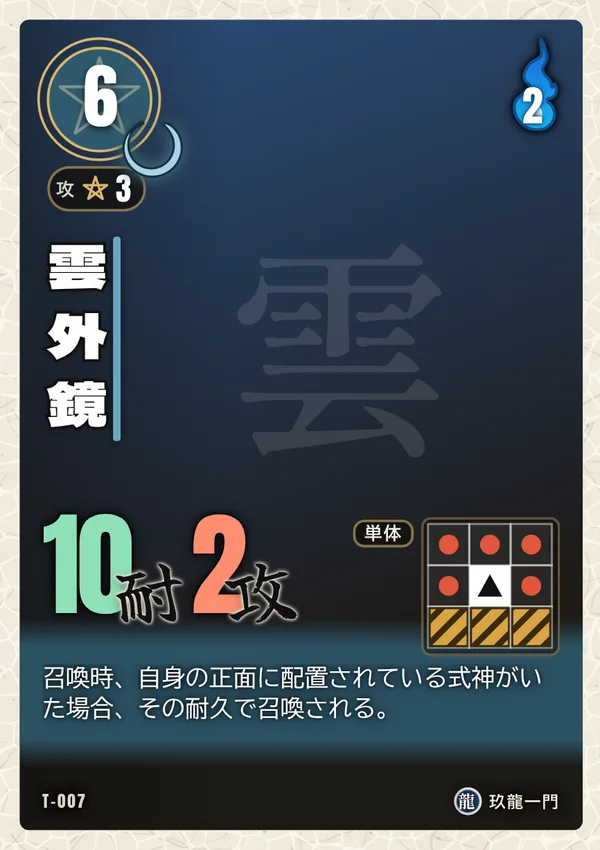
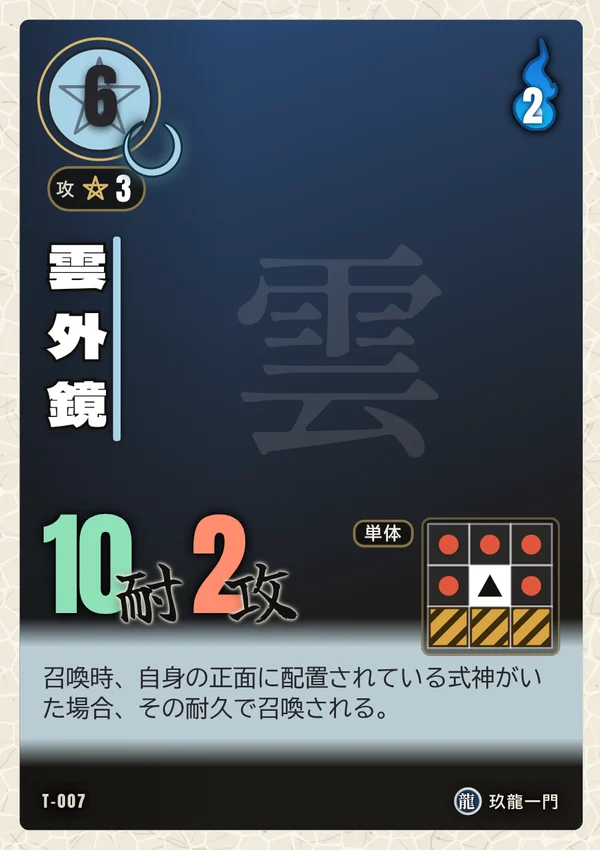
sim2: 空の色を淡い水色にした(1030案)。札の召喚の丸・効果文の下敷き、紙の盤の空のマス、スマホのタイルの空の札をそろえた
濃い青緑の空が陰の濃紺と見間違えられたため(10/29 テストプレイ)。
札の絵 T-003/T-005/T-007/T-008、盤のマス void.webp、紹介ページの盤の絵 board-play.webp を差し替え。

Claude-Session: https://claude.ai/code/session_01AZRZfNCtPehFYra9YcaX9S

Changed region(s): [[0.03, 0.7341, 0.99, 0.9176], [0.06, 0.0306, 0.27, 0.1835], [0.18, 0.2753, 0.21, 0.52]]

diff --git a/sim2/play/table.css b/sim2/play/table.css
@@ -1435,7 +1435,8 @@ select:focus-visible, input:focus-visible { outline: 2px solid var(--gold); outl
 .cell-attr .ca-mk { width: 1em; height: 1em; }
 .cell-attr.a-yin { background: #1c2339; color: oklch(92% 0.02 260); box-shadow: inset 0 0 0 1px oklch(70% 0.05 260 / 0.7), 0 0.6cqw 1.6cqw oklch(0% 0 0 / 0.55); }
 .cell-attr.a-yang { background: oklch(93% 0.04 85); color: oklch(25% 0.03 60); }
-.cell-attr.a-empty { background: oklch(40% 0.04 200); color: oklch(95% 0.01 200); }
+/* 空は淡い水色に墨の字 (1030案: 札の召喚の丸・紙の盤の空のマスと同じ #a9d3e6。濃い青緑は陰の濃紺と見間違えた) */
+.cell-attr.a-empty { background: #a9d3e6; color: #26262b; }
 .cell-attr.a-taiji { background: linear-gradient(135deg, var(--gold-hi), var(--gold)); color: var(--ink); }
 /* 見比べ用 (10/22, ?piece=tile with sessionStorage yy-tile-shape=wide): a shorter tile, so a strip of the cell shows above it */
 :root[data-tile-shape="wide"] .pc-tile .pc-body { height: 70cqh; translate: 0 10cqh; }
